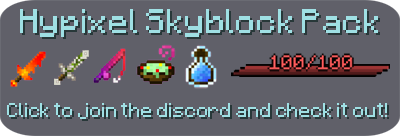
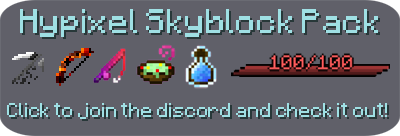
Updated version. Fixed slayer percentages showing wrong. You can now drop common bows normally, they aren't considered rare. Fixed the cooldown thingy again.

Changed region(s): [[0.0, 0.3529, 0.12, 0.6471], [0.12, 0.3529, 0.24, 0.6471]]

diff --git a/src/main/java/codes/biscuit/skyblockaddons/mixins/MixinRendererLivingEntity.java b/src/main/java/codes/biscuit/skyblockaddons/mixins/MixinRendererLivingEntity.java
@@ -1,17 +1,12 @@
 package codes.biscuit.skyblockaddons.mixins;
 
-import codes.biscuit.skyblockaddons.SkyblockAddons;
-import codes.biscuit.skyblockaddons.utils.Feature;
-import net.minecraft.client.renderer.GlStateManager;
 import net.minecraft.client.renderer.entity.RendererLivingEntity;
 import net.minecraft.entity.EntityLivingBase;
 import net.minecraft.entity.player.EntityPlayer;
 import net.minecraft.entity.player.EnumPlayerModelParts;
 import org.spongepowered.asm.mixin.Mixin;
 import org.spongepowered.asm.mixin.injection.At;
-import org.spongepowered.asm.mixin.injection.Inject;
 import org.spongepowered.asm.mixin.injection.Redirect;
-import org.spongepowered.asm.mixin.injection.callback.CallbackInfo;
 
 @Mixin(RendererLivingEntity.class)
 public class MixinRendererLivingEntity<T extends EntityLivingBase> {
@@ -33,31 +28,29 @@ public class MixinRendererLivingEntity<T extends EntityLivingBase> {
                 (isCoolPerson && !entityPlayer.isWearing(p_175148_1_));
     }
 
-    @Inject(method = "renderModel", at = @At(value = "INVOKE", target = "Lnet/minecraft/client/model/ModelBase;render(Lnet/minecraft/entity/Entity;FFFFFF)V", shift = At.Shift.BEFORE, ordinal = 0))
-    private void renderBefore(T entitylivingbaseIn, float p_77036_2_, float p_77036_3_, float p_77036_4_, float p_77036_5_, float p_77036_6_,
-                             float scaleFactor, CallbackInfo ci) {
-        SkyblockAddons main = SkyblockAddons.getInstance();
-        if (!main.getConfigValues().isRemoteDisabled(Feature.HALLOWEEN) && main.getUtils().isHalloween() && entitylivingbaseIn instanceof EntityPlayer) {
-            GlStateManager.pushMatrix(); // this makes players translucent
-            GlStateManager.color(1.0F, 1.0F, 1.0F, 0.40F);
-//            GlStateManager.depthMask(false);
-            GlStateManager.enableBlend();
-            GlStateManager.blendFunc(770, 771);
-            GlStateManager.alphaFunc(516, 0.003921569F);
-        }
-    }
-
-    @Inject(method = "renderModel", at = @At(value = "INVOKE", target = "Lnet/minecraft/client/model/ModelBase;render(Lnet/minecraft/entity/Entity;FFFFFF)V",
-            shift = At.Shift.AFTER, ordinal = 0))
-    private void renderAfter(T entitylivingbaseIn, float p_77036_2_, float p_77036_3_, float p_77036_4_, float p_77036_5_, float p_77036_6_, float scaleFactor, CallbackInfo ci) {
-        SkyblockAddons main = SkyblockAddons.getInstance();
-        if (!main.getConfigValues().isRemoteDisabled(Feature.HALLOWEEN) && main.getUtils().isHalloween() && entitylivingbaseIn instanceof EntityPlayer) {
-            GlStateManager.disableBlend();
-            GlStateManager.alphaFunc(516, 0.1F);
-            GlStateManager.popMatrix();
-//            GlStateManager.depthMask(true);
-        }
-    }
+//    @Inject(method = "renderModel", at = @At(value = "INVOKE", target = "Lnet/minecraft/client/model/ModelBase;render(Lnet/minecraft/entity/Entity;FFFFFF)V", shift = At.Shift.BEFORE, ordinal = 0))
+//    private void renderBefore(T entitylivingbaseIn, float p_77036_2_, float p_77036_3_, float p_77036_4_, float p_77036_5_, float p_77036_6_,
+//                             float scaleFactor, CallbackInfo ci) {
+//        SkyblockAddons main = SkyblockAddons.getInstance();
+//        if (!main.getConfigValues().isRemoteDisabled(Feature.HALLOWEEN) && main.getUtils().isHalloween() && entitylivingbaseIn instanceof EntityPlayer) {
+//            GlStateManager.pushMatrix(); // this makes players translucent
+//            GlStateManager.color(1.0F, 1.0F, 1.0F, 0.40F);
+//            GlStateManager.enableBlend();
+//            GlStateManager.blendFunc(770, 771);
+//            GlStateManager.alphaFunc(516, 0.003921569F);
+//        }
+//    }
+//
+//    @Inject(method = "renderModel", at = @At(value = "INVOKE", target = "Lnet/minecraft/client/model/ModelBase;render(Lnet/minecraft/entity/Entity;FFFFFF)V",
+//            shift = At.Shift.AFTER, ordinal = 0))
+//    private void renderAfter(T entitylivingbaseIn, float p_77036_2_, float p_77036_3_, float p_77036_4_, float p_77036_5_, float p_77036_6_, float scaleFactor, CallbackInfo ci) {
+//        SkyblockAddons main = SkyblockAddons.getInstance();
+//        if (!main.getConfigValues().isRemoteDisabled(Feature.HALLOWEEN) && main.getUtils().isHalloween() && entitylivingbaseIn instanceof EntityPlayer) {
+//            GlStateManager.disableBlend();
+//            GlStateManager.alphaFunc(516, 0.1F);
+//            GlStateManager.popMatrix();
+//        }
+//    }
 }
 
 

diff --git a/src/main/java/codes/biscuit/skyblockaddons/mixins/MixinEntityLayerCustomHead.java b/src/main/java/codes/biscuit/skyblockaddons/mixins/MixinEntityLayerCustomHead.java
@@ -1,39 +1,27 @@
 package codes.biscuit.skyblockaddons.mixins;
 
-import codes.biscuit.skyblockaddons.SkyblockAddons;
-import codes.biscuit.skyblockaddons.utils.Feature;
 import net.minecraft.client.renderer.entity.layers.LayerCustomHead;
-import net.minecraft.entity.EntityLivingBase;
-import net.minecraft.entity.player.EntityPlayer;
-import net.minecraft.init.Blocks;
-import net.minecraft.item.Item;
-import net.minecraft.item.ItemStack;
 import org.spongepowered.asm.mixin.Mixin;
-import org.spongepowered.asm.mixin.injection.At;
-import org.spongepowered.asm.mixin.injection.Redirect;
-
-import java.util.regex.Matcher;
-import java.util.regex.Pattern;
 
 @Mixin(LayerCustomHead.class)
 public class MixinEntityLayerCustomHead {
 
-    private final Pattern otherHalfLetters = Pattern.compile("[a-z0-9_]");
-
-    @Redirect(method = "doRenderLayer", at = @At(value = "INVOKE", target = "Lnet/minecraft/entity/EntityLivingBase;getCurrentArmor(I)Lnet/minecraft/item/ItemStack;", ordinal = 0))
-    private ItemStack getCurrentArmor(EntityLivingBase entityLivingBase, int slotIn) {
-        SkyblockAddons main = SkyblockAddons.getInstance();
-        if (entityLivingBase instanceof EntityPlayer) {
-            String nameFirstLetter = entityLivingBase.getName().substring(0, 1);
-            ItemStack item = new ItemStack(Item.getItemFromBlock(Blocks.lit_pumpkin));
-            Matcher matcher = otherHalfLetters.matcher(nameFirstLetter);
-            if (matcher.matches()) {
-                item = new ItemStack(Item.getItemFromBlock(Blocks.pumpkin));
-            }
-            if (!main.getConfigValues().isRemoteDisabled(Feature.HALLOWEEN) && main.getUtils().isHalloween() && !entityLivingBase.isInvisible()) {
-                return item;
-            }
-        }
-        return entityLivingBase.getCurrentArmor(slotIn);
-    }
+//    private final Pattern otherHalfLetters = Pattern.compile("[a-z0-9_]");
+//
+//    @Redirect(method = "doRenderLayer", at = @At(value = "INVOKE", target = "Lnet/minecraft/entity/EntityLivingBase;getCurrentArmor(I)Lnet/minecraft/item/ItemStack;", ordinal = 0))
+//    private ItemStack getCurrentArmor(EntityLivingBase entityLivingBase, int slotIn) {
+//        SkyblockAddons main = SkyblockAddons.getInstance();
+//        if (entityLivingBase instanceof EntityPlayer) {
+//            String nameFirstLetter = entityLivingBase.getName().substring(0, 1);
+//            ItemStack item = new ItemStack(Item.getItemFromBlock(Blocks.lit_pumpkin));
+//            Matcher matcher = otherHalfLetters.matcher(nameFirstLetter);
+//            if (matcher.matches()) {
+//                item = new ItemStack(Item.getItemFromBlock(Blocks.pumpkin));
+//            }
+//            if (!main.getConfigValues().isRemoteDisabled(Feature.HALLOWEEN) && main.getUtils().isHalloween() && !entityLivingBase.isInvisible()) {
+//                return item;
+//            }
+//        }
+//        return entityLivingBase.getCurrentArmor(slotIn);
+//    }
 }

diff --git a/src/main/java/codes/biscuit/skyblockaddons/utils/Utils.java b/src/main/java/codes/biscuit/skyblockaddons/utils/Utils.java
@@ -572,12 +572,13 @@ public class Utils {
     }
 
     public boolean cantDropItem(ItemStack item, EnumUtils.Rarity rarity, boolean hotbar) {
+        if (Items.bow.equals(item.getItem()) && rarity == EnumUtils.Rarity.COMMON) return false; // exclude rare bows lol
+        if (item.hasDisplayName() && item.getDisplayName().contains("Backpack")) return true; // dont drop backpacks ever
         if (hotbar) {
-            return item.getItem().isDamageable() || (rarity != EnumUtils.Rarity.COMMON && rarity != EnumUtils.Rarity.UNCOMMON)
-                    || (item.hasDisplayName() && item.getDisplayName().contains("Backpack"));
+            return item.getItem().isDamageable() || (rarity != EnumUtils.Rarity.COMMON && rarity != EnumUtils.Rarity.UNCOMMON);
         } else {
             return item.getItem().isDamageable() || (rarity != EnumUtils.Rarity.COMMON && rarity != EnumUtils.Rarity.UNCOMMON
-                    && rarity != EnumUtils.Rarity.RARE) || (item.hasDisplayName() && item.getDisplayName().contains("Backpack"));
+                    && rarity != EnumUtils.Rarity.RARE);
         }
     }
 
@@ -685,8 +686,10 @@ public class Utils {
                 String abilityName = getAbilityName(itemStack);
                 CooldownEntry cooldownEntry = getCooldownEntry(item, name);
                 if (!item.isDamageable() && abilityName == null) return; // if its not a tool and has no ability, its not gonna have a cooldown
-                if (cooldownEntry != null && cooldownEntry.getCooldown() == 1) {
-                    cooldownEntry.setLastUse();
+                if (cooldownEntry != null) {
+                    if (cooldownEntry.getCooldown() == 1) {
+                        cooldownEntry.setLastUse();
+                    }
                 } else {
                     cooldownEntries.add(new CooldownEntry(item,name,cooldownSeconds));
                 }

diff --git a/src/main/java/codes/biscuit/skyblockaddons/listeners/PlayerListener.java b/src/main/java/codes/biscuit/skyblockaddons/listeners/PlayerListener.java
@@ -54,7 +54,7 @@ public class PlayerListener {
     private final Pattern ABILITY_CHAT_PATTERN = Pattern.compile("§r§aUsed §r§6[A-Za-z ]+§r§a! §r§b\\([0-9]+ Mana\\)§r");
     private final Pattern PROFILE_CHAT_PATTERN = Pattern.compile("§aYou are playing on profile: §e([A-Za-z]+).*");
     private final Pattern SWITCH_PROFILE_CHAT_PATTERN = Pattern.compile("§aYour profile was changed to: §e([A-Za-z]+).*");
-    private final Pattern COLLECTIONS_CHAT_PATTERN = Pattern.compile("§.\\+§[0-9a-f]([0-9.]+) §?[0-9a-f]?([A-Za-z]+) (\\([0-9.,]+/[0-9.,]+\\))");
+    private final Pattern COLLECTIONS_CHAT_PATTERN = Pattern.compile("§.\\+(?:§[0-9a-f])?([0-9.]+) §?[0-9a-f]?([A-Za-z]+) (\\([0-9.,]+/[0-9.,]+\\))");
 
     private boolean sentUpdate = false;
     private long lastWorldJoin = -1;
@@ -546,8 +546,10 @@ public class PlayerListener {
             }
         }
 
-        if (e.toolTip != null && e.toolTip.size() > 4 && main.getUtils().isOnSkyblock()) {
+        if (e.toolTip != null && main.getUtils().isOnSkyblock() && !main.getConfigValues().isRemoteDisabled(Feature.HIDE_GREY_ENCHANTS)) {
             for (int i = 1; i <= 3; i++) { // only a max of 2 gray enchants are possible
+                if (i >= e.toolTip.size()) continue; // out of bounds
+
                 GuiScreen gui = Minecraft.getMinecraft().currentScreen;
                 if (gui instanceof GuiChest) {
                     Container chest = ((GuiChest)gui).inventorySlots;

diff --git a/src/main/java/codes/biscuit/skyblockaddons/utils/InventoryUtils.java b/src/main/java/codes/biscuit/skyblockaddons/utils/InventoryUtils.java
@@ -276,7 +276,7 @@ public class InventoryUtils {
                     if (matcher.matches()) { // Example: line§5§o§7Next Upgrade: §a+240❈ §8(§a14,418§7/§c15,000§8)
                         try {
 //                            progress = color.toString() + matcher.group(2)+"/"+matcher.group(3) + " (" + ConfigColor.GREEN+ matcher.group(1) + color + ")";
-                            float percentage = Float.parseFloat(matcher.group(2).replace(",", ""))/Integer.parseInt(matcher.group(3).replace(",", ""));
+                            float percentage = Float.parseFloat(matcher.group(2).replace(",", ""))/Integer.parseInt(matcher.group(3).replace(",", ""))*100;
                             BigDecimal bigDecimal = new BigDecimal(percentage).setScale(0, BigDecimal.ROUND_HALF_UP);
                             progress = color.toString() + bigDecimal.toString() + "% (" + ConfigColor.GREEN+ matcher.group(1) + color + ")";
                             break;

diff --git a/src/main/java/codes/biscuit/skyblockaddons/mixins/MixinPlayerControllerMP.java b/src/main/java/codes/biscuit/skyblockaddons/mixins/MixinPlayerControllerMP.java
@@ -140,7 +140,7 @@ public class MixinPlayerControllerMP {
     @Inject(method = "windowClick", at = @At("HEAD"), locals = LocalCapture.CAPTURE_FAILSOFT, cancellable = true)
     private void onWindowClick(int windowId, int slotNum, int clickButton, int clickModifier, EntityPlayer player, CallbackInfoReturnable<ItemStack> cir) {
         // Handle blocking the next click, sorry I did it this way
-        if(Utils.blockNextClick) {
+        if (Utils.blockNextClick) {
             Utils.blockNextClick = false;
             cir.setReturnValue(null);
             cir.cancel();

diff --git a/src/main/java/codes/biscuit/skyblockaddons/utils/Feature.java b/src/main/java/codes/biscuit/skyblockaddons/utils/Feature.java
@@ -72,7 +72,7 @@ public enum Feature {
     SLAYER_INDICATOR(57, Message.SETTING_SLAYER_INDICATOR, new GuiFeatureData(EnumUtils.DrawType.REVENANT_PROGRESS, ConfigColor.AQUA, EnumUtils.AnchorPoint.BOTTOM_RIGHT, -84, -29), true),
     SPECIAL_ZEALOT_ALERT(58, Message.SETTING_SPECIAL_ZEALOT_ALERT, new GuiFeatureData(ConfigColor.RED), false),
 
-    HALLOWEEN(100, null, false),
+    HIDE_GREY_ENCHANTS(100, null, false), // allow remote disabling this feature
 
     WARNING_TIME(-1, Message.SETTING_WARNING_DURATION, false),
 

diff --git a/src/main/java/codes/biscuit/skyblockaddons/SkyblockAddons.java b/src/main/java/codes/biscuit/skyblockaddons/SkyblockAddons.java
@@ -90,7 +90,7 @@ public class SkyblockAddons {
 
     private void changeKeyBindDescription(KeyBinding bind, String desc) {
         try {
-            Field field = bind.getClass().getDeclaredField("keyDescription");
+            Field field = bind.getClass().getDeclaredField(utils.isDevEnviroment() ? "keyDescription" : "field_74515_c");
             field.setAccessible(true);
             field.set(bind, desc);
         } catch(NoSuchFieldException | IllegalAccessException e) {
